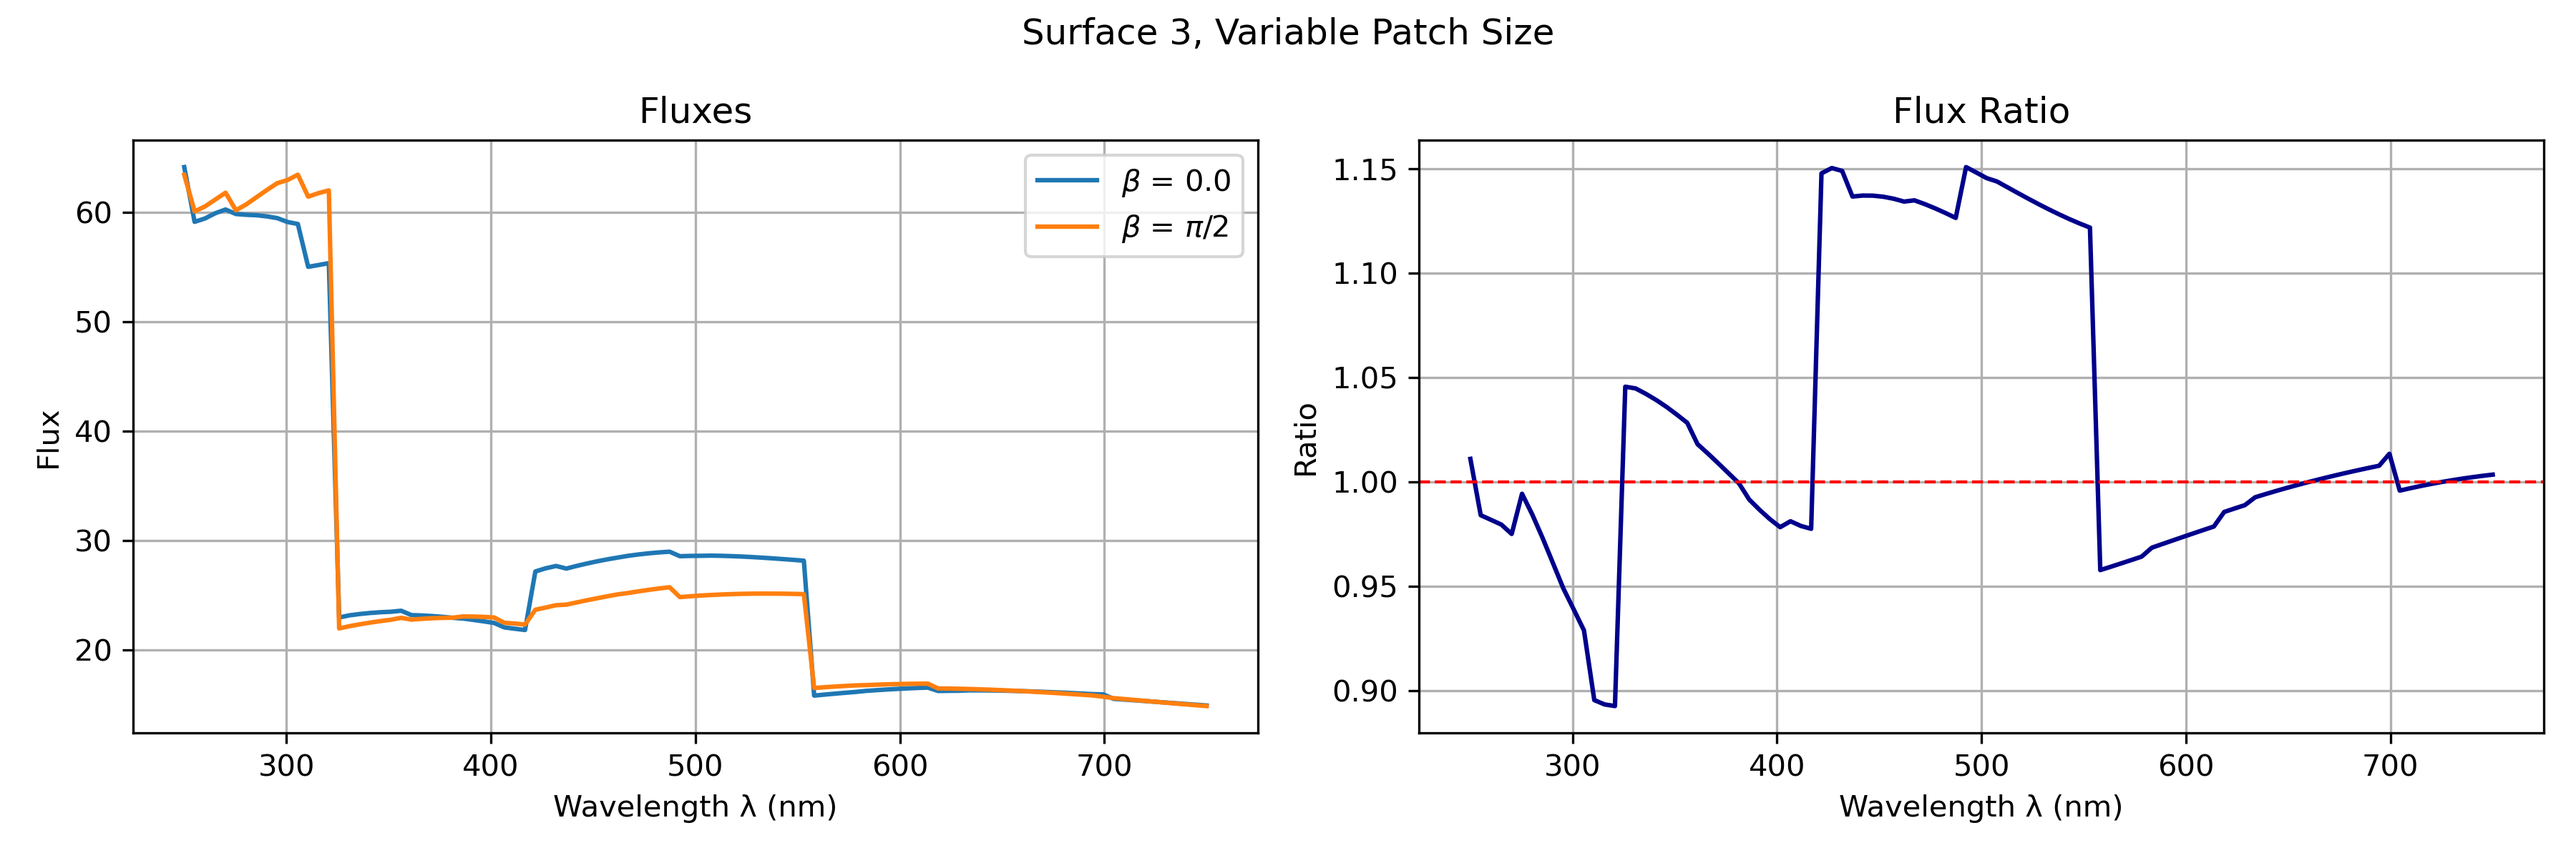
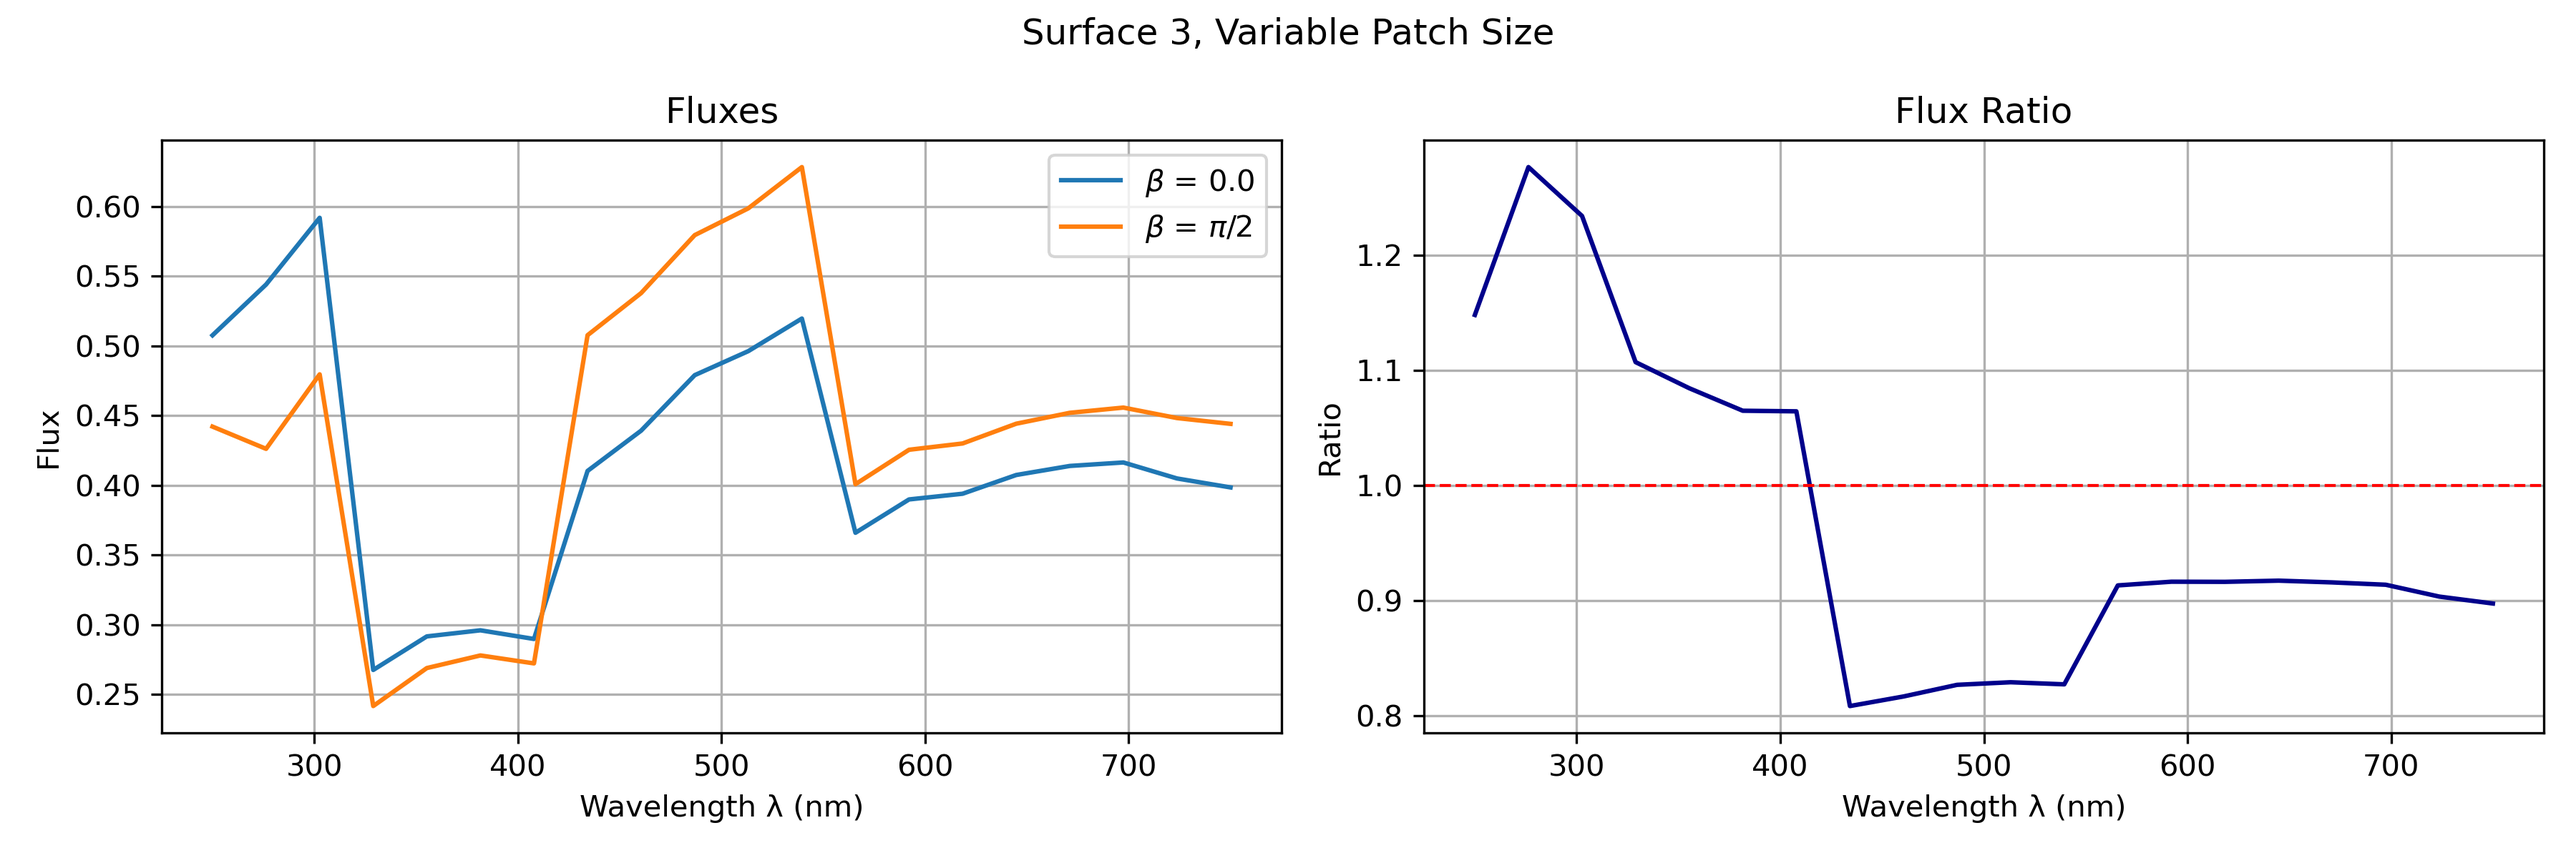
Array equations rettet

diff --git a/Cpp/src/Forward/FieldCalculatorArray.cpp b/Cpp/src/Forward/FieldCalculatorArray.cpp
@@ -31,6 +31,8 @@ void FieldCalculatorArray::constructor()
     double dimension = points.col(0).maxCoeff() - points.col(0).minCoeff();
     double half_dim = dimension/2.0;
 
+    this->halfDim_ = half_dim;
+
     int N = std::ceil(largeDim_/dimension);
 
     this->arrayWeights_ = Eigen::VectorXd::Constant(N * N, 1.0);
@@ -42,9 +44,9 @@ void FieldCalculatorArray::constructor()
     for (int i = 0; i < N; ++i){
         for (int j = 0; j < N; ++j){
             
-            arrayPositions.row(N * i + j) << -half_dim + i * 1.0/N * dimension, 
-                                             -half_dim + j * 1.0/N * dimension, 
-                                              0;
+            arrayPositions.row(N * i + j) << i * dimension, 
+                                             j * dimension, 
+                                             0;
 
         };
     };
@@ -76,9 +78,10 @@ void FieldCalculatorArray::computeFarFields(
 
     FieldTotal_->computeFields(outE, outH, evalPoints, polarization_idx);
     Eigen::Vector3d x;
+    Eigen::Vector3d arrayOrigin (halfDim_, halfDim_, 0.0);
 
     for (int j = 0; j < M; ++j){
-        x = evalPoints.row(j).normalized();
+        x = (evalPoints.row(j).transpose() - arrayOrigin).normalized();
 
         std::complex<double> arrayFactor = 0.0;
 

diff --git a/realDataArray.cpp b/realDataArray.cpp
@@ -80,11 +80,11 @@ int main() {
     double rough_size_min = 0.5;
     double rough_size_max = 1.0;  // Roughly how big the patch should be
 
-    bool variable_patch_size = false;
+    bool variable_patch_size = true;
     
     double lambda_min = 0.25;
     double lambda_max = 0.75;
-    int lambda_nr = 100;
+    int lambda_nr = 20;
 
     double beta_min = 0.0;
     double beta_max = constants.pi/2;

diff --git a/Cpp/lib/Forward/FieldCalculatorArray.h b/Cpp/lib/Forward/FieldCalculatorArray.h
@@ -59,6 +59,7 @@ private:
     Eigen::VectorXd arrayWeights_;
     Eigen::MatrixX3d arrayPositions_;
     double largeDim_;
+    double halfDim_;
 
     void constructor();
 };
